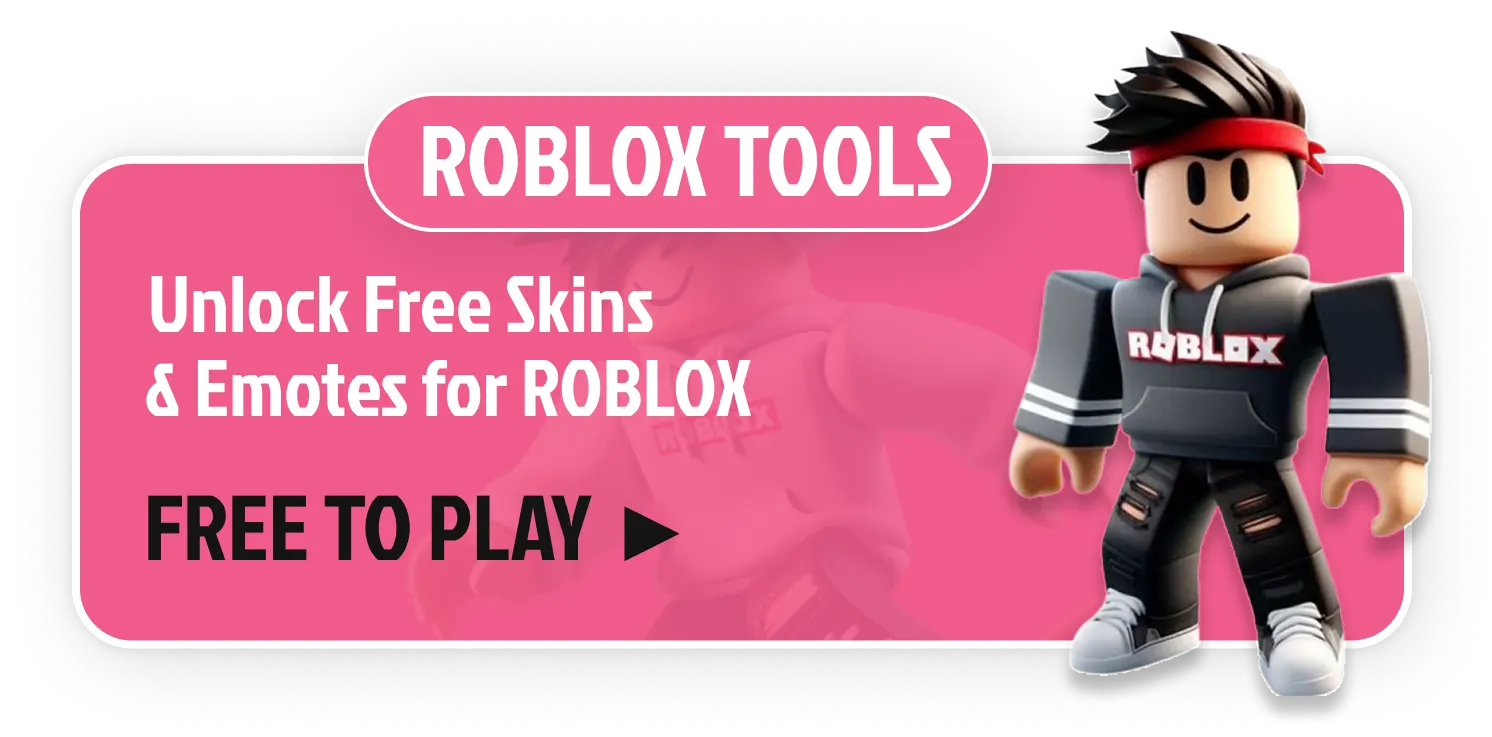
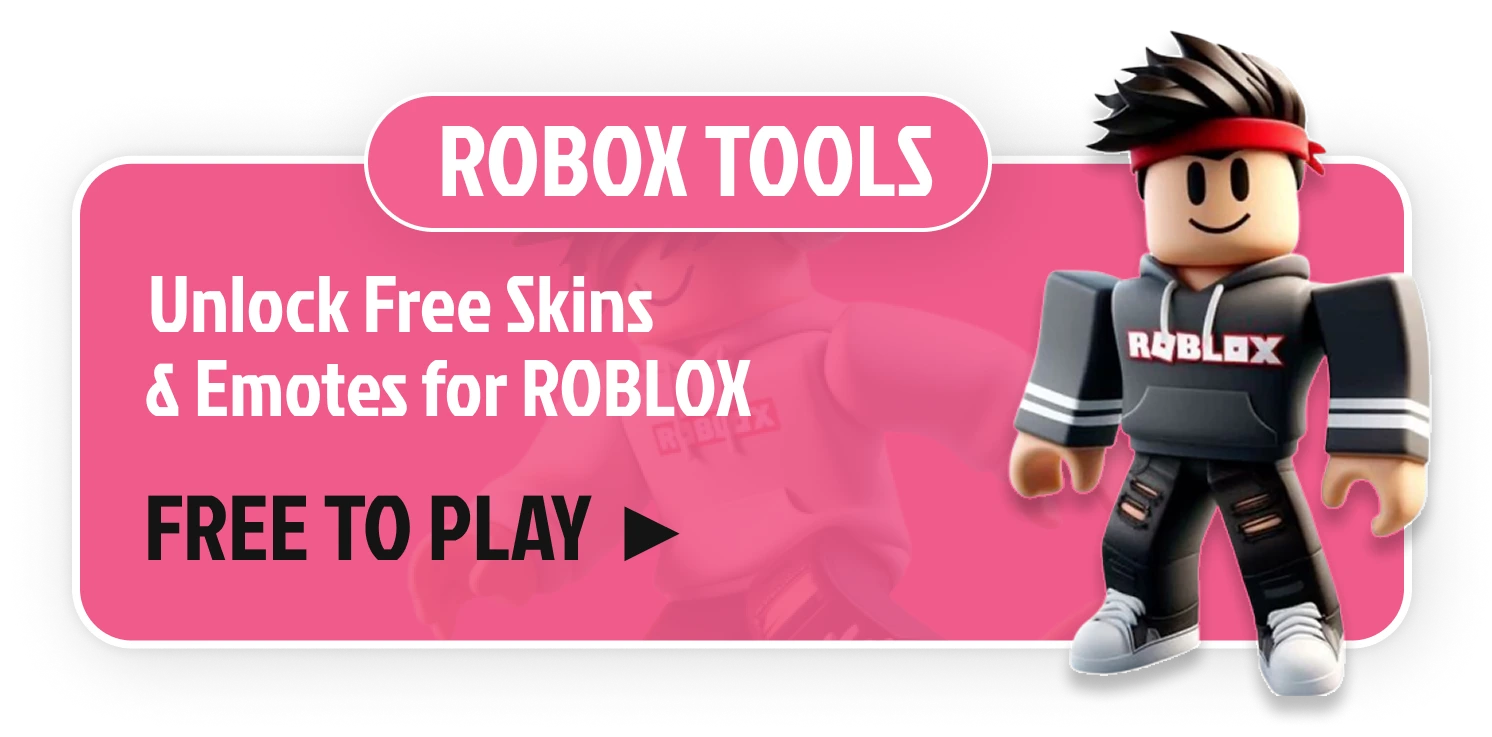
update title name and site name

Changed region(s): [[0.2775, 0.156, 0.6475, 0.2809]]

diff --git a/containers/success/index.js b/containers/success/index.js
@@ -38,15 +38,15 @@ function Success() {
 
         <div className='px-2'>
           <a href="/rbxexclusive">
-            <img src="/assets/images/freeBox.png" className="w-full" />
+            <img src="/assets/images/freeBox.webp" className="w-full" />
           </a>
         </div>
         <div className="grid grid-cols-2 gap-6 items-center justify-center p-6 cursor-pointer pt-5">
           <a href="/rebloxTools/clothing">
-            <img src="/assets/images/robloxtools/Clothing.png" className="w-full h-[240px] lg:h-auto" />
+            <img src="/assets/images/robloxtools/Clothing.webp" className="w-full h-[240px] lg:h-auto" />
           </a>
           <a href="/rebloxTools/animation">
-            <img src="/assets/images/robloxtools/Animation.png" className="w-full " />
+            <img src="/assets/images/robloxtools/Animation.webp" className="w-full " />
           </a>
         </div>
       </div>

diff --git a/pages/claimnow/index.js b/pages/claimnow/index.js
@@ -5,12 +5,14 @@ import React, { Fragment } from 'react'
 function index() {
     return (
         <Fragment>
-        <Head>
-            <script async src="https://pagead2.googlesyndication.com/pagead/js/adsbygoogle.js?client=ca-pub-4575195873243785"
-                crossorigin="anonymous"></script>
-        </Head>
-        <ClaimNow />
-    </Fragment>
+            <Head>
+
+                <title>{"Robox Exclusive"}</title>
+                <script async src="https://pagead2.googlesyndication.com/pagead/js/adsbygoogle.js?client=ca-pub-4575195873243785"
+                    crossorigin="anonymous"></script>
+            </Head>
+            <ClaimNow />
+        </Fragment>
     )
 }
 

diff --git a/pages/_document.js b/pages/_document.js
@@ -5,7 +5,7 @@ export default function Document() {
     <Html lang="en">
       <Head>
         <meta charSet="utf-8" />
-        <link rel="icon" href="/resources/Diamond.png" />
+        <link rel="icon" href="/assets/images/rbxExclusive/image.png" />
         <link rel="stylesheet" type="text/css" />
         <link
           rel="stylesheet"
@@ -16,7 +16,8 @@ export default function Document() {
           href="https://fonts.googleapis.com/css2?family=Jockey+One&display=swap"
           rel="stylesheet"
         />
-
+        <title>Robox Exclusive </title>
+       
         {/* Google Tag Manager Script */}
         <script dangerouslySetInnerHTML={{
           __html: `

diff --git a/pages/rebloxTools/index.js b/pages/rebloxTools/index.js
@@ -1,3 +1,4 @@
+import ReboxTools from "@containers/RebloxTools";
 import RebloxTools from "@containers/RebloxTools";
 
 import Head from "next/head";
@@ -8,12 +9,13 @@ export default function Homepage() {
     return (
         <Fragment>
             <Head>
+                               <title>{"Robox Exclusive"}</title>
                 <script async src="https://pagead2.googlesyndication.com/pagead/js/adsbygoogle.js?client=ca-pub-4575195873243785"
                     crossorigin="anonymous"></script>
 
             </Head>
 
-            <RebloxTools />
+            <ReboxTools />
 
         </Fragment>
     );

diff --git a/pages/maps/[maps]/index.js b/pages/maps/[maps]/index.js
@@ -1,11 +1,17 @@
 import ProductsDetails from '@containers/ProductsDetails'
-import React from 'react'
+import Head from 'next/head'
+import React, { Fragment } from 'react'
 
 function index() {
     return (
-        <div>
+        <Fragment>
+            <Head>
+                <title>{"Robox Exclusive"}</title>
+                <script async src="https://pagead2.googlesyndication.com/pagead/js/adsbygoogle.js?client=ca-pub-4575195873243785"
+                    crossorigin="anonymous"></script>
+            </Head>
             <ProductsDetails />
-        </div>
+        </Fragment>
     )
 }
 

diff --git a/pages/rebloxTools/heads/[heads]/index.js b/pages/rebloxTools/heads/[heads]/index.js
@@ -5,13 +5,13 @@ import React, { Fragment } from 'react'
 function index() {
     return (
         <Fragment>
-        <Head>
-           
-            
-
-        </Head>
-        <Details />
-    </Fragment>
+            <Head>
+                <title>{"Robox Exclusive"}</title>
+                <script async src="https://pagead2.googlesyndication.com/pagead/js/adsbygoogle.js?client=ca-pub-4575195873243785"
+                    crossorigin="anonymous"></script>
+            </Head>
+            <Details />
+        </Fragment>
     )
 }
 

diff --git a/containers/home/index.js b/containers/home/index.js
@@ -18,13 +18,8 @@ function Home() {
 
 
     <div className=" h-max pt-5">
-      <div className="flex items-center justify-center font-semibold pb-10">
-        <img
-          alt="Logo"
-          className="cursor-pointer w-[100px]"
-          src="/assets/images/ROBLOX.png"
-          onClick={() => router.push("/")}
-        />
+      <div className="flex items-center text-[35px] justify-center font-semibold pb-10">
+        {"ROBOX"}
       </div>
 
       <div className="p-4 ">

diff --git a/pages/characters/characters/index.js b/pages/characters/characters/index.js
@@ -6,6 +6,8 @@ function index() {
     return (
         <Fragment>
             <Head>
+            <title>{"Robox Exclusive"}</title>
+                               <title>{"Robox Exclusive"}</title>
                 <script async src="https://pagead2.googlesyndication.com/pagead/js/adsbygoogle.js?client=ca-pub-4575195873243785"
                     crossorigin="anonymous"></script>
             </Head>

diff --git a/pages/characters/avatar/index.js b/pages/characters/avatar/index.js
@@ -6,6 +6,8 @@ function index() {
     return (
         <div>
             <Head>
+            <title>{"Robox Exclusive"}</title>
+                               <title>{"Robox Exclusive"}</title>
                 <script async src="https://pagead2.googlesyndication.com/pagead/js/adsbygoogle.js?client=ca-pub-4575195873243785"
                     crossorigin="anonymous"></script>
             </Head>

diff --git a/pages/maps/index.js b/pages/maps/index.js
@@ -6,6 +6,7 @@ function index() {
     return (
         <Fragment>
             <Head>
+                               <title>{"Robox Exclusive"}</title>
                 <script async src="https://pagead2.googlesyndication.com/pagead/js/adsbygoogle.js?client=ca-pub-4575195873243785"
                     crossorigin="anonymous"></script>
             </Head>

diff --git a/pages/maturitylevel/index.js b/pages/maturitylevel/index.js
@@ -6,6 +6,7 @@ function index() {
     return (
         <Fragment>
             <Head>
+                               <title>{"Robox Exclusive"}</title>
                 <script async src="https://pagead2.googlesyndication.com/pagead/js/adsbygoogle.js?client=ca-pub-4575195873243785"
                     crossorigin="anonymous"></script>
             </Head>

diff --git a/pages/playtime/index.js b/pages/playtime/index.js
@@ -6,6 +6,7 @@ function index() {
     return (
         <Fragment>
             <Head>
+                               <title>{"Robox Exclusive"}</title>
                 <script async src="https://pagead2.googlesyndication.com/pagead/js/adsbygoogle.js?client=ca-pub-4575195873243785"
                     crossorigin="anonymous"></script>
             </Head>
